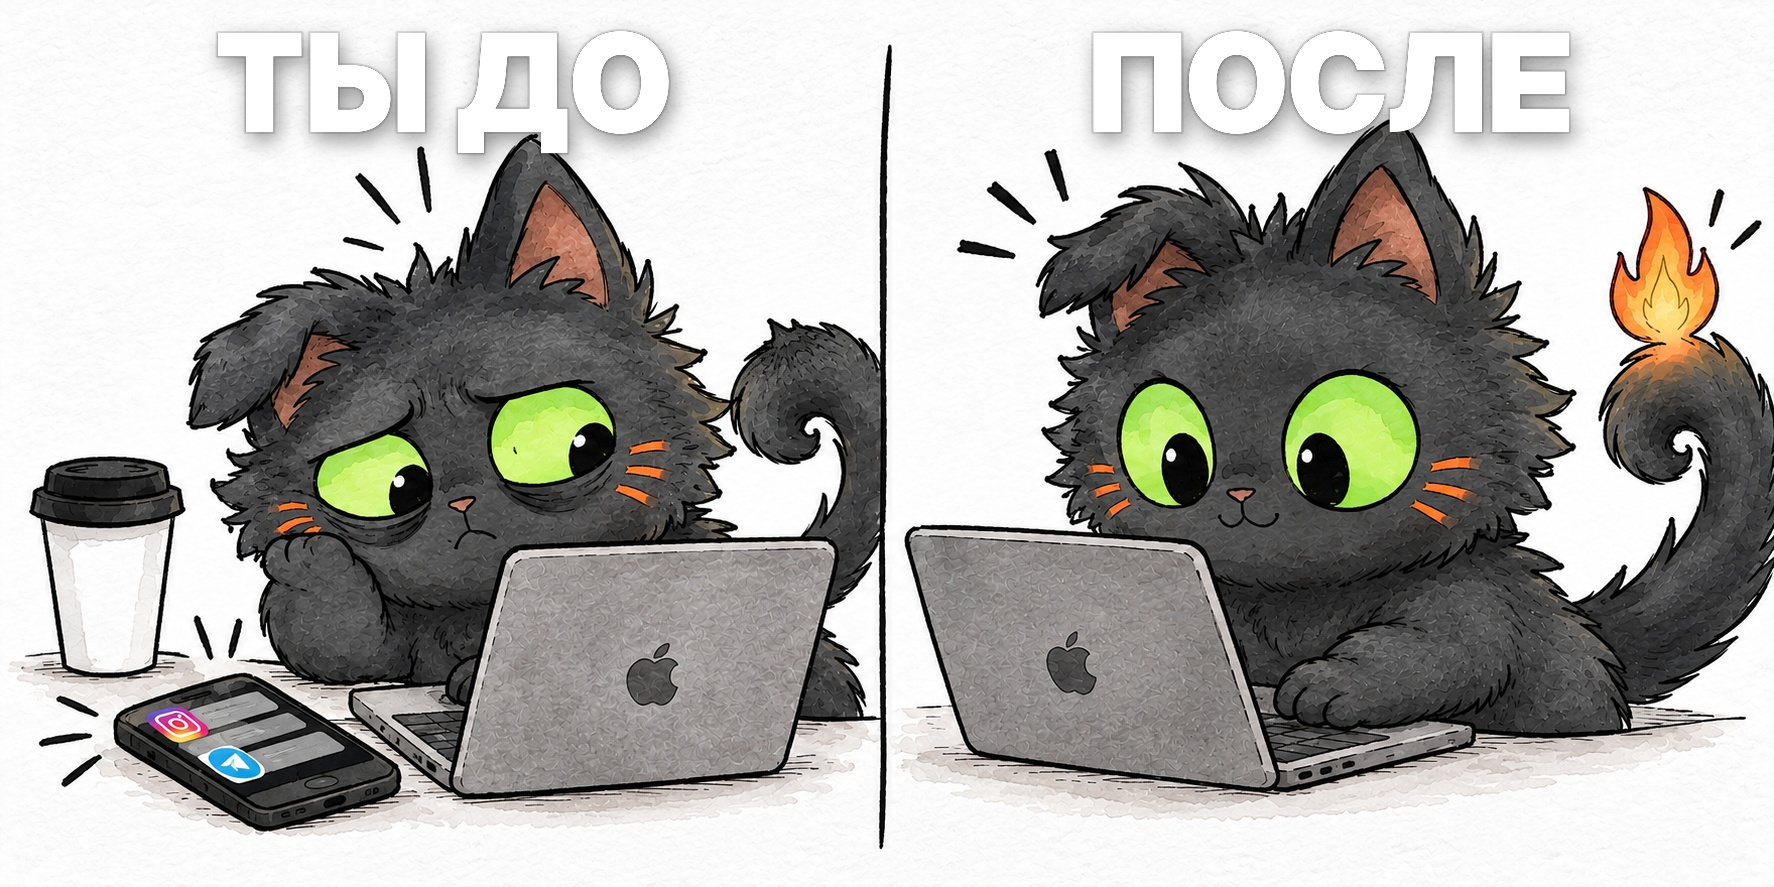
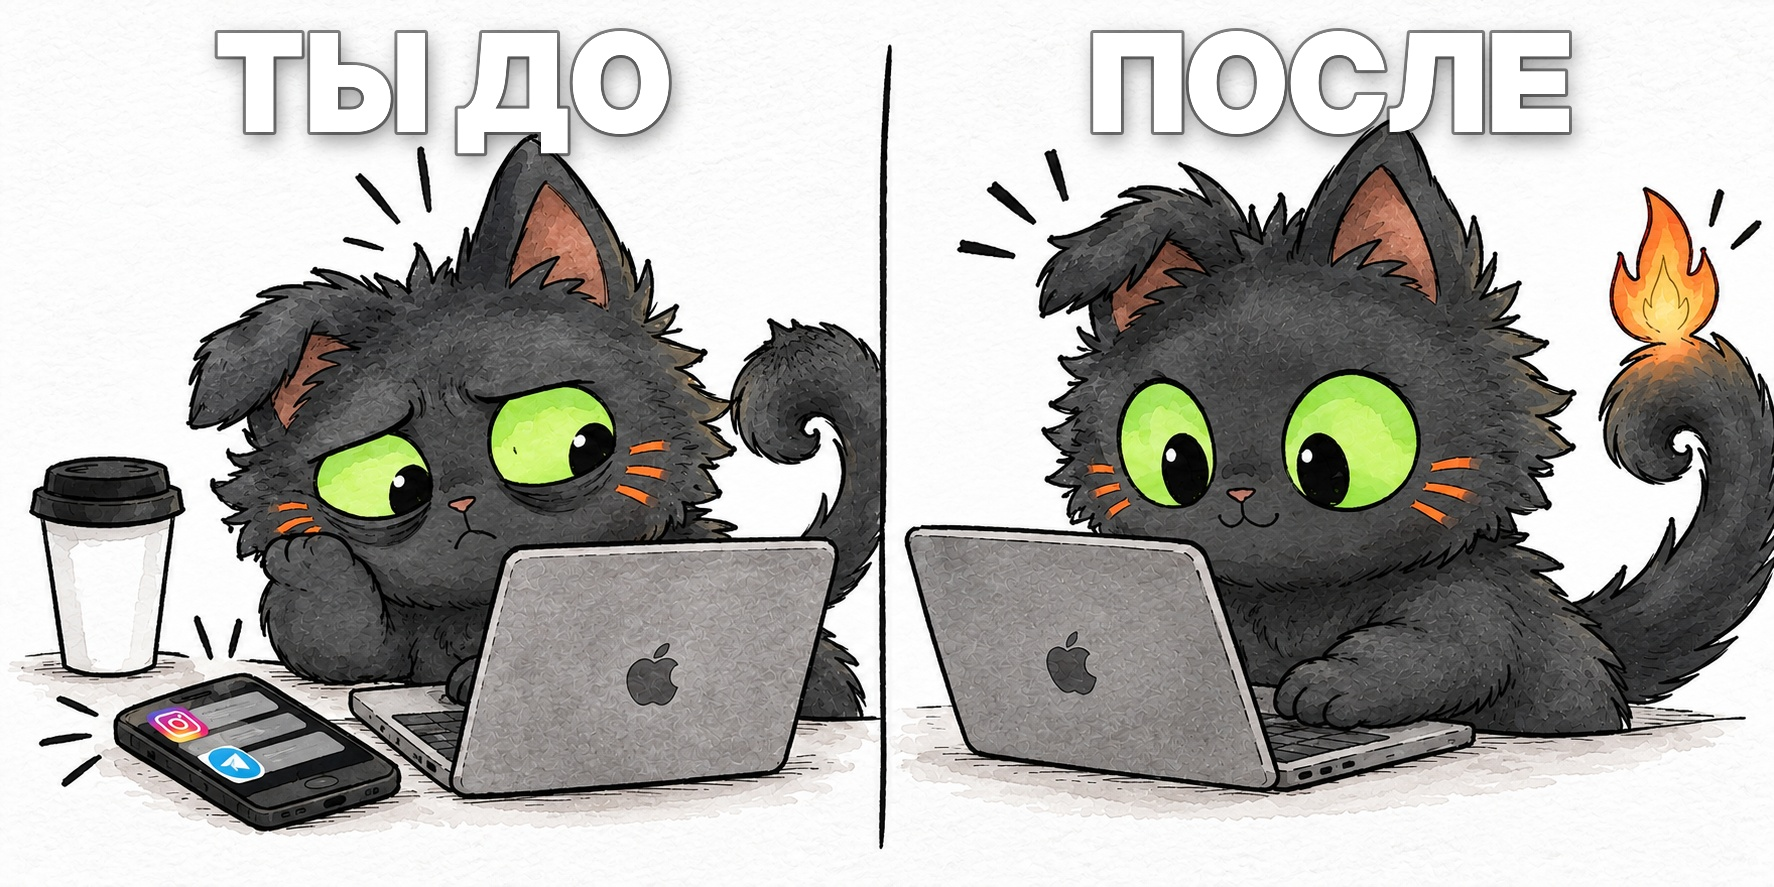
L02 thumbnail: a bit stronger outline
Claude-Session: https://claude.ai/code/session_01WL83YHdupNJiw52fjyDVVG

diff --git a/videos/L02_otvlechenie/thumb/text.py b/videos/L02_otvlechenie/thumb/text.py
@@ -11,7 +11,7 @@ for txt, cx in (("ТЫ ДО", W * 0.25), ("ПОСЛЕ", W * 0.75)):
     d = ImageDraw.Draw(layer); ds = ImageDraw.Draw(sh)
     w = d.textlength(txt, font=F); x, y = cx - w / 2, 0
     ds.text((x + 4, y + 8), txt, font=F, fill=(0, 0, 0, shadow_a))
-    d.text((x, y), txt, font=F, fill=(255, 255, 255, 255), stroke_width=2, stroke_fill=(0, 0, 0, 30))
+    d.text((x, y), txt, font=F, fill=(255, 255, 255, 255), stroke_width=3, stroke_fill=(0, 0, 0, 120))
     d.text((x, y), txt, font=F, fill=(255, 255, 255, 255))
 sh = sh.filter(ImageFilter.GaussianBlur(10))
 Image.alpha_composite(Image.alpha_composite(base, sh), layer).convert("RGB").save(out, quality=95)
